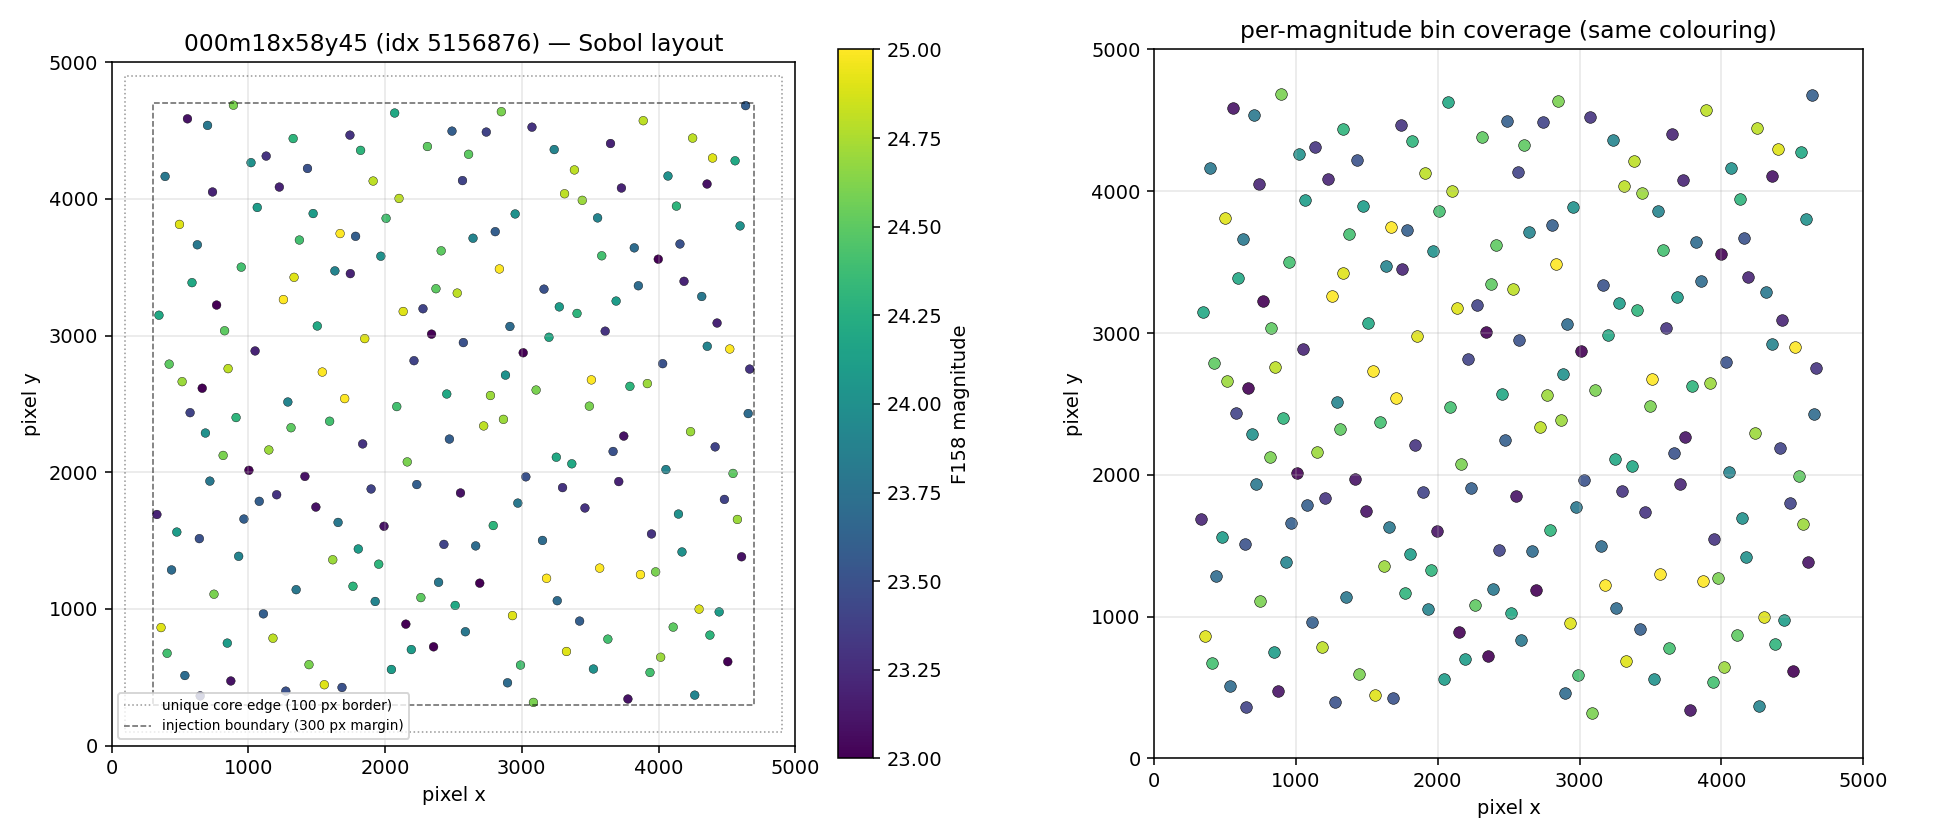
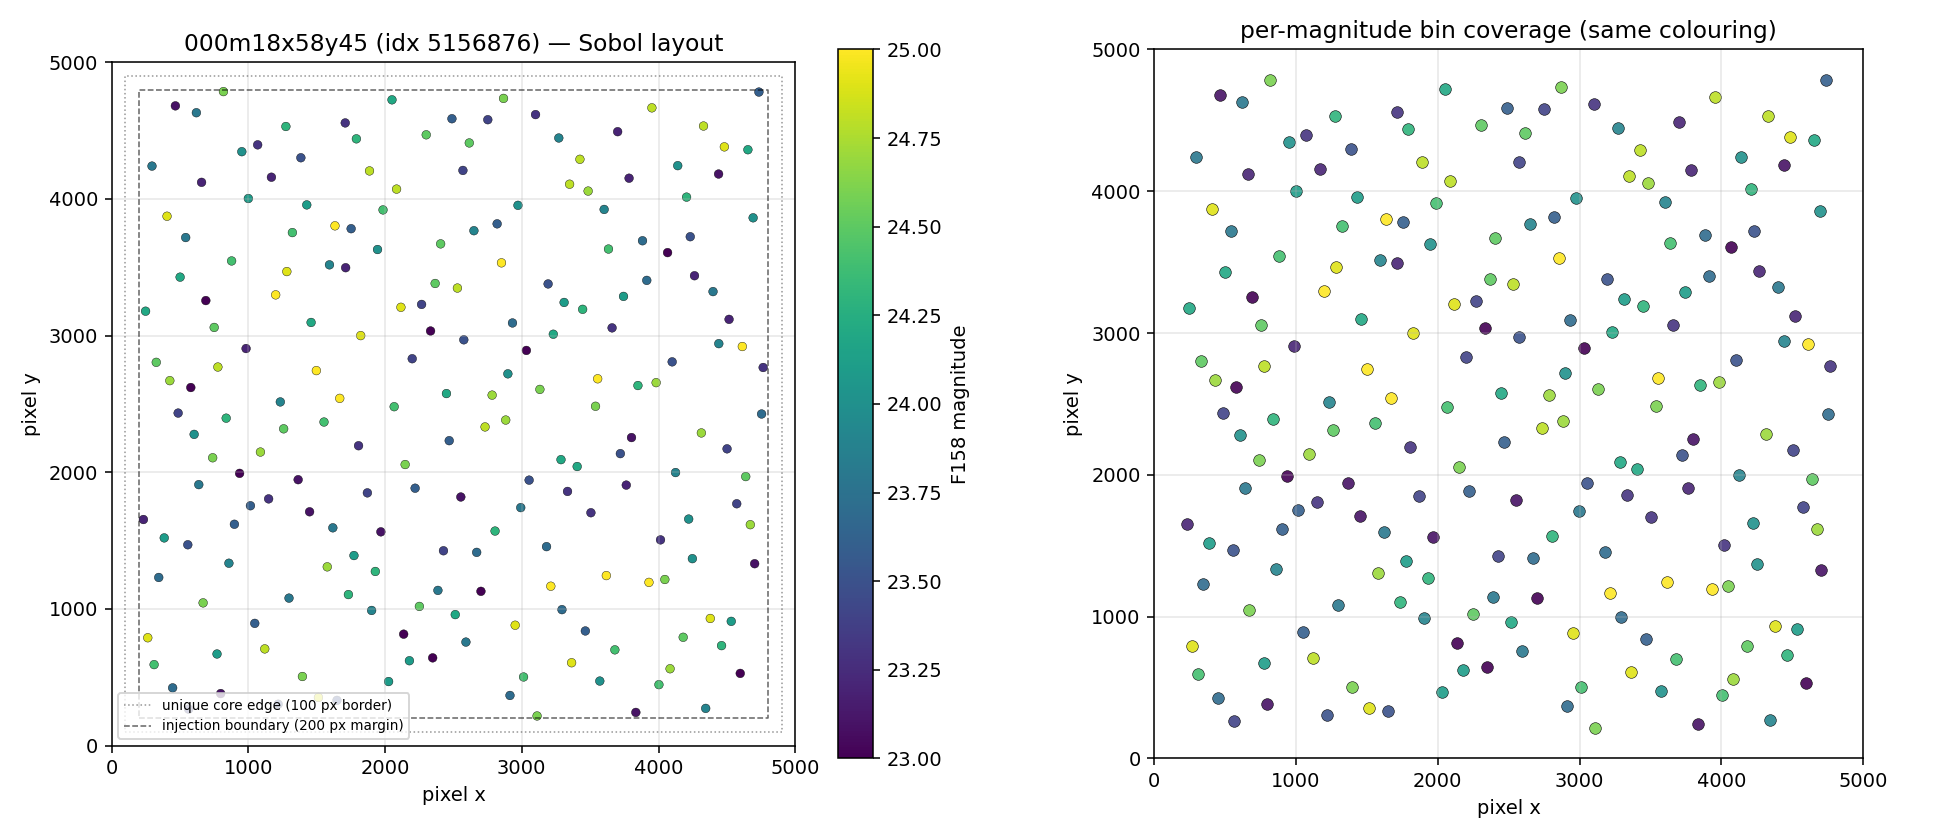
Built site for gh-pages

diff --git a/detection/phase3_catalogs.html b/detection/phase3_catalogs.html
@@ -286,9 +286,9 @@ pre > code.sourceCode > span > a:first-child::before { text-decoration: underlin
 <section id="placement-sobol-quasi-random" class="level2">
 <h2 class="anchored" data-anchor-id="placement-sobol-quasi-random">Placement — Sobol quasi-random</h2>
 <p>Instead of a regular grid (which would correlate magnitude with pixel column and could interact with SCA boundaries or PSF variations), we use a <strong>2-D Sobol low-discrepancy sequence</strong> inside the skycell’s unique core. The magnitude assignment is a separate seeded shuffle, so every mag bin’s 10 sources are scattered across the full skycell area — no systematic mag-vs-position correlation.</p>
-<p>Skycells overlap their neighbours by <code>skycell_border_pixels = 100</code> (per the Roman skymap reference file), so the unique core of each 5000×5000 skycell is <code>[100, 4900]²</code>. We inject sources inside <code>[300, 4700]²</code> — a 300-pixel margin that puts every source at least 200 pixels <em>inside</em> the unique core, giving slack for drizzle kernels, PSF wings, and mosaic weight-map edge effects.</p>
-<p>With 210 sources in a 4400×4400 pix injection area at 0.055″/pix, mean nearest-neighbour separation is ~16″, well above the ~5–10″ blending threshold, so no rejection sampling is needed.</p>
-<div id="8d92e3dc" class="cell" data-execution_count="2">
+<p>Skycells overlap their neighbours by <code>skycell_border_pixels = 100</code> (per the Roman skymap reference file), so the unique core of each 5000×5000 skycell is <code>[100, 4900]²</code>. We inject sources inside <code>[200, 4800]²</code> — a 200-pixel margin that puts every source 100 pixels inside the unique core, with room to spare for PSF wings and drizzle kernels.</p>
+<p>With 210 sources in a 4600×4600 pix injection area at 0.055″/pix, mean nearest-neighbour separation is ~17″, well above the ~5–10″ blending threshold, so no rejection sampling is needed.</p>
+<div id="19ec1f03" class="cell" data-execution_count="2">
 <div class="cell-output cell-output-display">
 <div class="quarto-figure quarto-figure-center">
 <figure class="figure">
@@ -393,7 +393,7 @@ pre > code.sourceCode > span > a:first-child::before { text-decoration: underlin
 <section id="schema" class="level2">
 <h2 class="anchored" data-anchor-id="schema">Schema</h2>
 <p>The on-disk parquet format matches the existing <code>catalogs/sources.parquet</code> column convention (see <code>docs/data_model_reference.md</code>) so romanisim can ingest it without any adapter:</p>
-<div id="04beea11" class="cell" data-execution_count="4">
+<div id="81d36261" class="cell" data-execution_count="4">
 <div class="cell-output cell-output-display" data-execution_count="4">
 <div>
 
@@ -474,7 +474,7 @@ pre > code.sourceCode > span > a:first-child::before { text-decoration: underlin
 </div>
 </div>
 <p>A sample row from the 11119 <strong>stars</strong> catalog (<code>type = PSF</code>):</p>
-<div id="7c6ff64a" class="cell" data-execution_count="5">
+<div id="da99eb52" class="cell" data-execution_count="5">
 <div class="cell-output cell-output-display" data-execution_count="5">
 <div>
 
@@ -489,11 +489,11 @@ pre > code.sourceCode > span > a:first-child::before { text-decoration: underlin
 <tbody>
 <tr class="odd">
 <th data-quarto-table-cell-role="th">ra</th>
-<td>359.636278</td>
+<td>359.637203</td>
 </tr>
 <tr class="even">
 <th data-quarto-table-cell-role="th">dec</th>
-<td>-17.366202</td>
+<td>-17.367702</td>
 </tr>
 <tr class="odd">
 <th data-quarto-table-cell-role="th">type</th>
@@ -529,11 +529,11 @@ pre > code.sourceCode > span > a:first-child::before { text-decoration: underlin
 </tr>
 <tr class="odd">
 <th data-quarto-table-cell-role="th">pix_x</th>
-<td>3776.119141</td>
+<td>3834.124512</td>
 </tr>
 <tr class="even">
 <th data-quarto-table-cell-role="th">pix_y</th>
-<td>341.663147</td>
+<td>243.556915</td>
 </tr>
 </tbody>
 </table>
@@ -542,7 +542,7 @@ pre > code.sourceCode > span > a:first-child::before { text-decoration: underlin
 </div>
 </div>
 <p>A sample row from the 11119 <strong>galaxies</strong> catalog (<code>type = SER</code>, <code>n = 1</code>, <code>half_light_radius = 0.275″</code>) at the <em>same</em> source index — note identical <code>ra</code>, <code>dec</code>, <code>F158</code>, <code>mag</code>:</p>
-<div id="496e1930" class="cell" data-execution_count="6">
+<div id="f0206227" class="cell" data-execution_count="6">
 <div class="cell-output cell-output-display" data-execution_count="6">
 <div>
 
@@ -557,11 +557,11 @@ pre > code.sourceCode > span > a:first-child::before { text-decoration: underlin
 <tbody>
 <tr class="odd">
 <th data-quarto-table-cell-role="th">ra</th>
-<td>359.636278</td>
+<td>359.637203</td>
 </tr>
 <tr class="even">
 <th data-quarto-table-cell-role="th">dec</th>
-<td>-17.366202</td>
+<td>-17.367702</td>
 </tr>
 <tr class="odd">
 <th data-quarto-table-cell-role="th">type</th>
@@ -597,11 +597,11 @@ pre > code.sourceCode > span > a:first-child::before { text-decoration: underlin
 </tr>
 <tr class="odd">
 <th data-quarto-table-cell-role="th">pix_x</th>
-<td>3776.119141</td>
+<td>3834.124512</td>
 </tr>
 <tr class="even">
 <th data-quarto-table-cell-role="th">pix_y</th>
-<td>341.663147</td>
+<td>243.556915</td>
 </tr>
 </tbody>
 </table>
@@ -674,7 +674,7 @@ pre > code.sourceCode > span > a:first-child::before { text-decoration: underlin
 </tr>
 <tr class="even">
 <th data-quarto-table-cell-role="th">9</th>
-<td>pixel positions inside the 300-px injection bo...</td>
+<td>pixel positions inside the 200-px injection bo...</td>
 <td>True</td>
 </tr>
 </tbody>
@@ -1202,12 +1202,12 @@ pre > code.sourceCode > span > a:first-child::before { text-decoration: underlin
 <span id="cb2-50"><a href="#cb2-50" aria-hidden="true" tabindex="-1"></a>Skycells overlap their neighbours by <span class="in">`skycell_border_pixels = 100`</span></span>
 <span id="cb2-51"><a href="#cb2-51" aria-hidden="true" tabindex="-1"></a>(per the Roman skymap reference file), so the unique core of each</span>
 <span id="cb2-52"><a href="#cb2-52" aria-hidden="true" tabindex="-1"></a>5000×5000 skycell is <span class="in">`[100, 4900]²`</span>. We inject sources inside</span>
-<span id="cb2-53"><a href="#cb2-53" aria-hidden="true" tabindex="-1"></a><span class="in">`[300, 4700]²`</span> — a 300-pixel margin that puts every source at least</span>
-<span id="cb2-54"><a href="#cb2-54" aria-hidden="true" tabindex="-1"></a>200 pixels *inside* the unique core, giving slack for drizzle kernels,</span>
-<span id="cb2-55"><a href="#cb2-55" aria-hidden="true" tabindex="-1"></a>PSF wings, and mosaic weight-map edge effects.</span>
+<span id="cb2-53"><a href="#cb2-53" aria-hidden="true" tabindex="-1"></a><span class="in">`[200, 4800]²`</span> — a 200-pixel margin that puts every source 100 pixels</span>
+<span id="cb2-54"><a href="#cb2-54" aria-hidden="true" tabindex="-1"></a>inside the unique core, with room to spare for PSF wings and drizzle</span>
+<span id="cb2-55"><a href="#cb2-55" aria-hidden="true" tabindex="-1"></a>kernels.</span>
 <span id="cb2-56"><a href="#cb2-56" aria-hidden="true" tabindex="-1"></a></span>
-<span id="cb2-57"><a href="#cb2-57" aria-hidden="true" tabindex="-1"></a>With 210 sources in a 4400×4400 pix injection area at 0.055″/pix, mean</span>
-<span id="cb2-58"><a href="#cb2-58" aria-hidden="true" tabindex="-1"></a>nearest-neighbour separation is ~16″, well above the ~5–10″ blending</span>
+<span id="cb2-57"><a href="#cb2-57" aria-hidden="true" tabindex="-1"></a>With 210 sources in a 4600×4600 pix injection area at 0.055″/pix, mean</span>
+<span id="cb2-58"><a href="#cb2-58" aria-hidden="true" tabindex="-1"></a>nearest-neighbour separation is ~17″, well above the ~5–10″ blending</span>
 <span id="cb2-59"><a href="#cb2-59" aria-hidden="true" tabindex="-1"></a>threshold, so no rejection sampling is needed.</span>
 <span id="cb2-60"><a href="#cb2-60" aria-hidden="true" tabindex="-1"></a></span>
 <span id="cb2-63"><a href="#cb2-63" aria-hidden="true" tabindex="-1"></a><span class="in">```{python}</span></span>
@@ -1302,9 +1302,9 @@ pre > code.sourceCode > span > a:first-child::before { text-decoration: underlin
 <span id="cb2-162"><a href="#cb2-162" aria-hidden="true" tabindex="-1"></a>     <span class="bu">bool</span>((gal_11119[<span class="st">"type"</span>] <span class="op">==</span> <span class="st">"SER"</span>).<span class="bu">all</span>()</span>
 <span id="cb2-163"><a href="#cb2-163" aria-hidden="true" tabindex="-1"></a>          <span class="kw">and</span> np.allclose(gal_11119[<span class="st">"n"</span>], <span class="fl">1.0</span>)</span>
 <span id="cb2-164"><a href="#cb2-164" aria-hidden="true" tabindex="-1"></a>          <span class="kw">and</span> np.allclose(gal_11119[<span class="st">"half_light_radius"</span>], <span class="fl">0.275</span>))),</span>
-<span id="cb2-165"><a href="#cb2-165" aria-hidden="true" tabindex="-1"></a>    (<span class="st">"pixel positions inside the 300-px injection boundary"</span>,</span>
-<span id="cb2-166"><a href="#cb2-166" aria-hidden="true" tabindex="-1"></a>     <span class="bu">bool</span>((stars_11119[<span class="st">"pix_x"</span>].between(<span class="dv">300</span>, <span class="dv">4700</span>)).<span class="bu">all</span>()</span>
-<span id="cb2-167"><a href="#cb2-167" aria-hidden="true" tabindex="-1"></a>          <span class="kw">and</span> (stars_11119[<span class="st">"pix_y"</span>].between(<span class="dv">300</span>, <span class="dv">4700</span>)).<span class="bu">all</span>())),</span>
+<span id="cb2-165"><a href="#cb2-165" aria-hidden="true" tabindex="-1"></a>    (<span class="st">"pixel positions inside the 200-px injection boundary"</span>,</span>
+<span id="cb2-166"><a href="#cb2-166" aria-hidden="true" tabindex="-1"></a>     <span class="bu">bool</span>((stars_11119[<span class="st">"pix_x"</span>].between(<span class="dv">200</span>, <span class="dv">4800</span>)).<span class="bu">all</span>()</span>
+<span id="cb2-167"><a href="#cb2-167" aria-hidden="true" tabindex="-1"></a>          <span class="kw">and</span> (stars_11119[<span class="st">"pix_y"</span>].between(<span class="dv">200</span>, <span class="dv">4800</span>)).<span class="bu">all</span>())),</span>
 <span id="cb2-168"><a href="#cb2-168" aria-hidden="true" tabindex="-1"></a>]</span>
 <span id="cb2-169"><a href="#cb2-169" aria-hidden="true" tabindex="-1"></a>pd.DataFrame(checks, columns<span class="op">=</span>[<span class="st">"check"</span>, <span class="st">"pass"</span>])</span>
 <span id="cb2-170"><a href="#cb2-170" aria-hidden="true" tabindex="-1"></a><span class="in">```</span></span>
